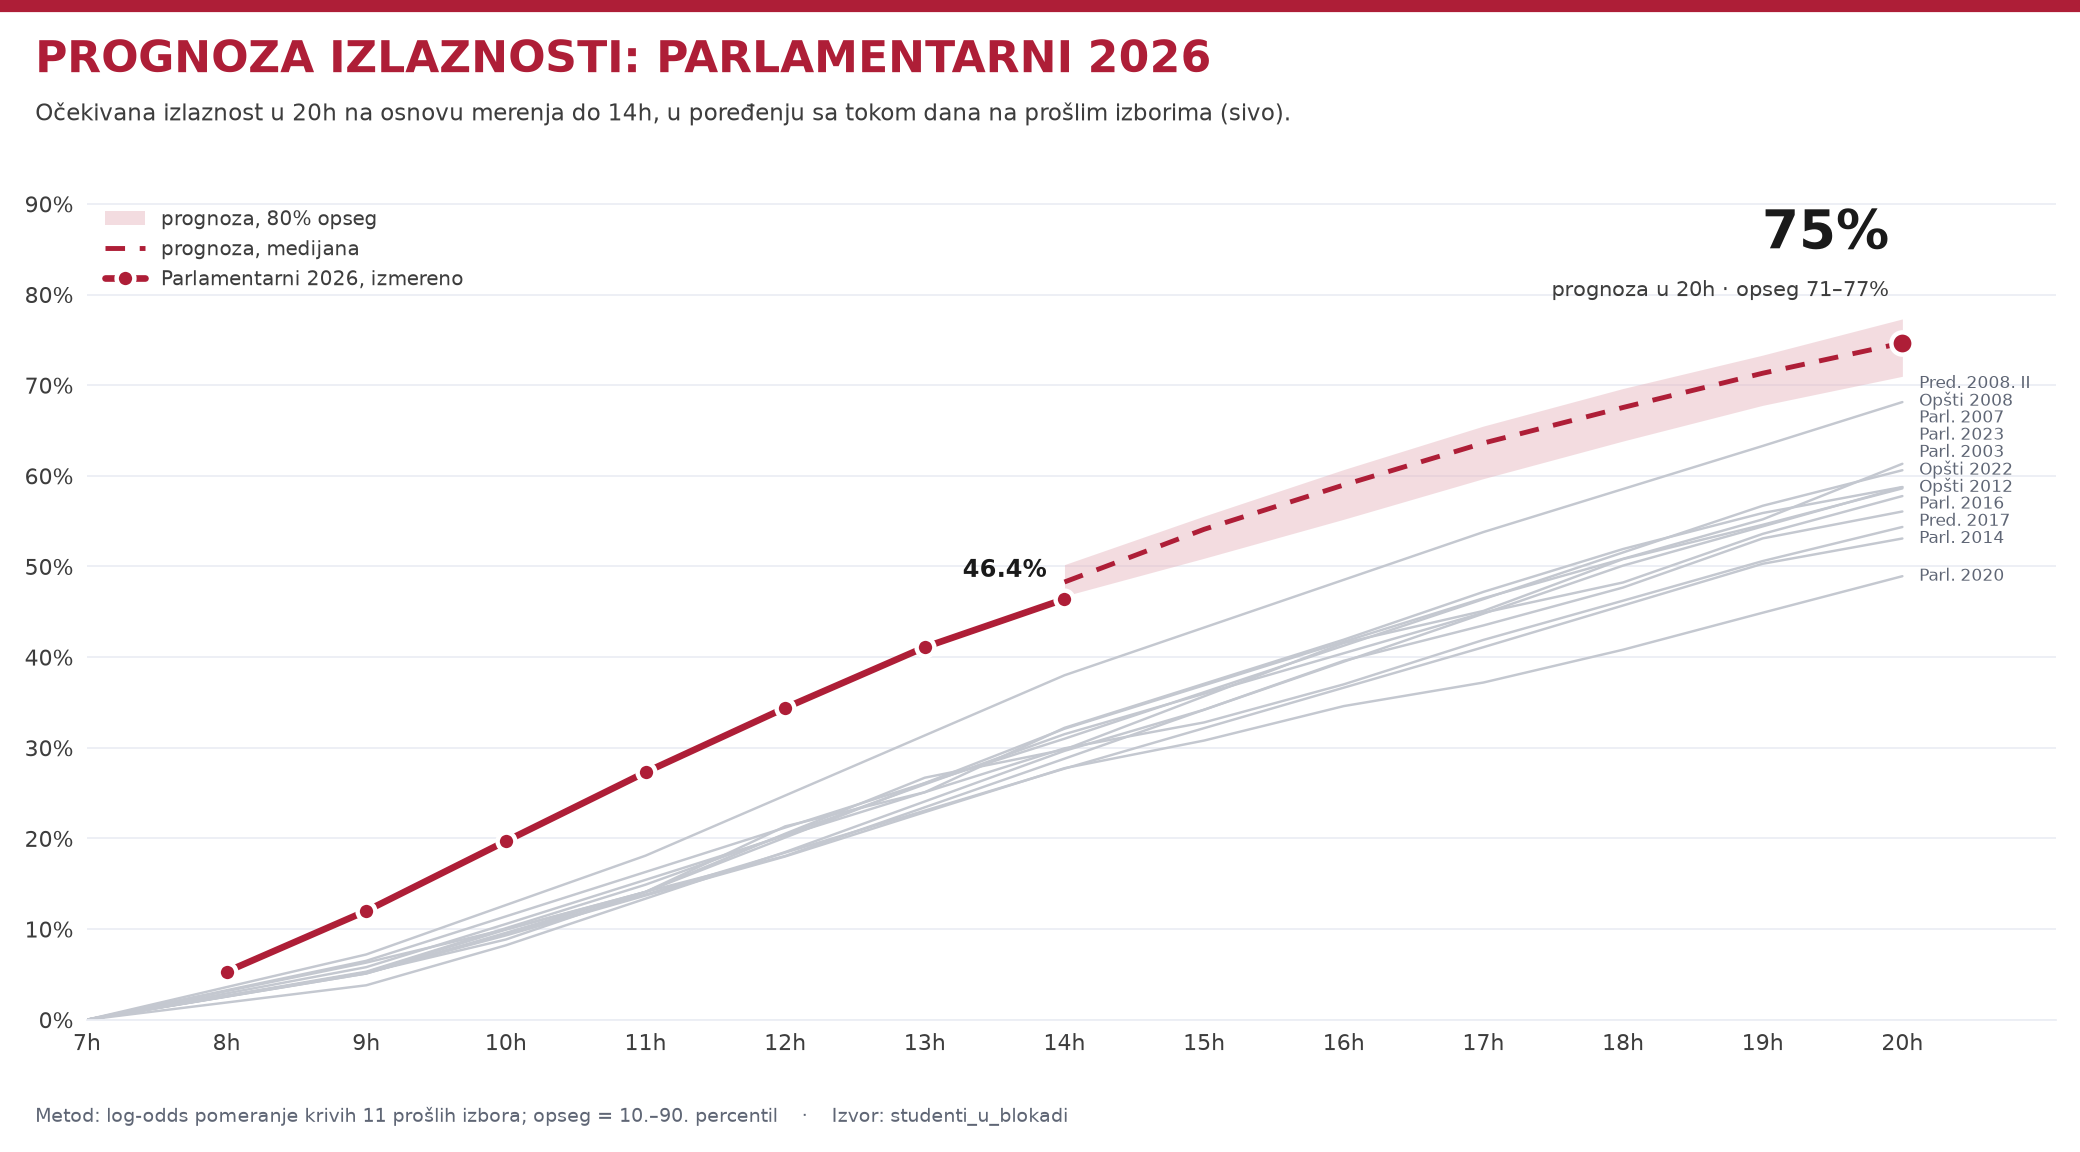
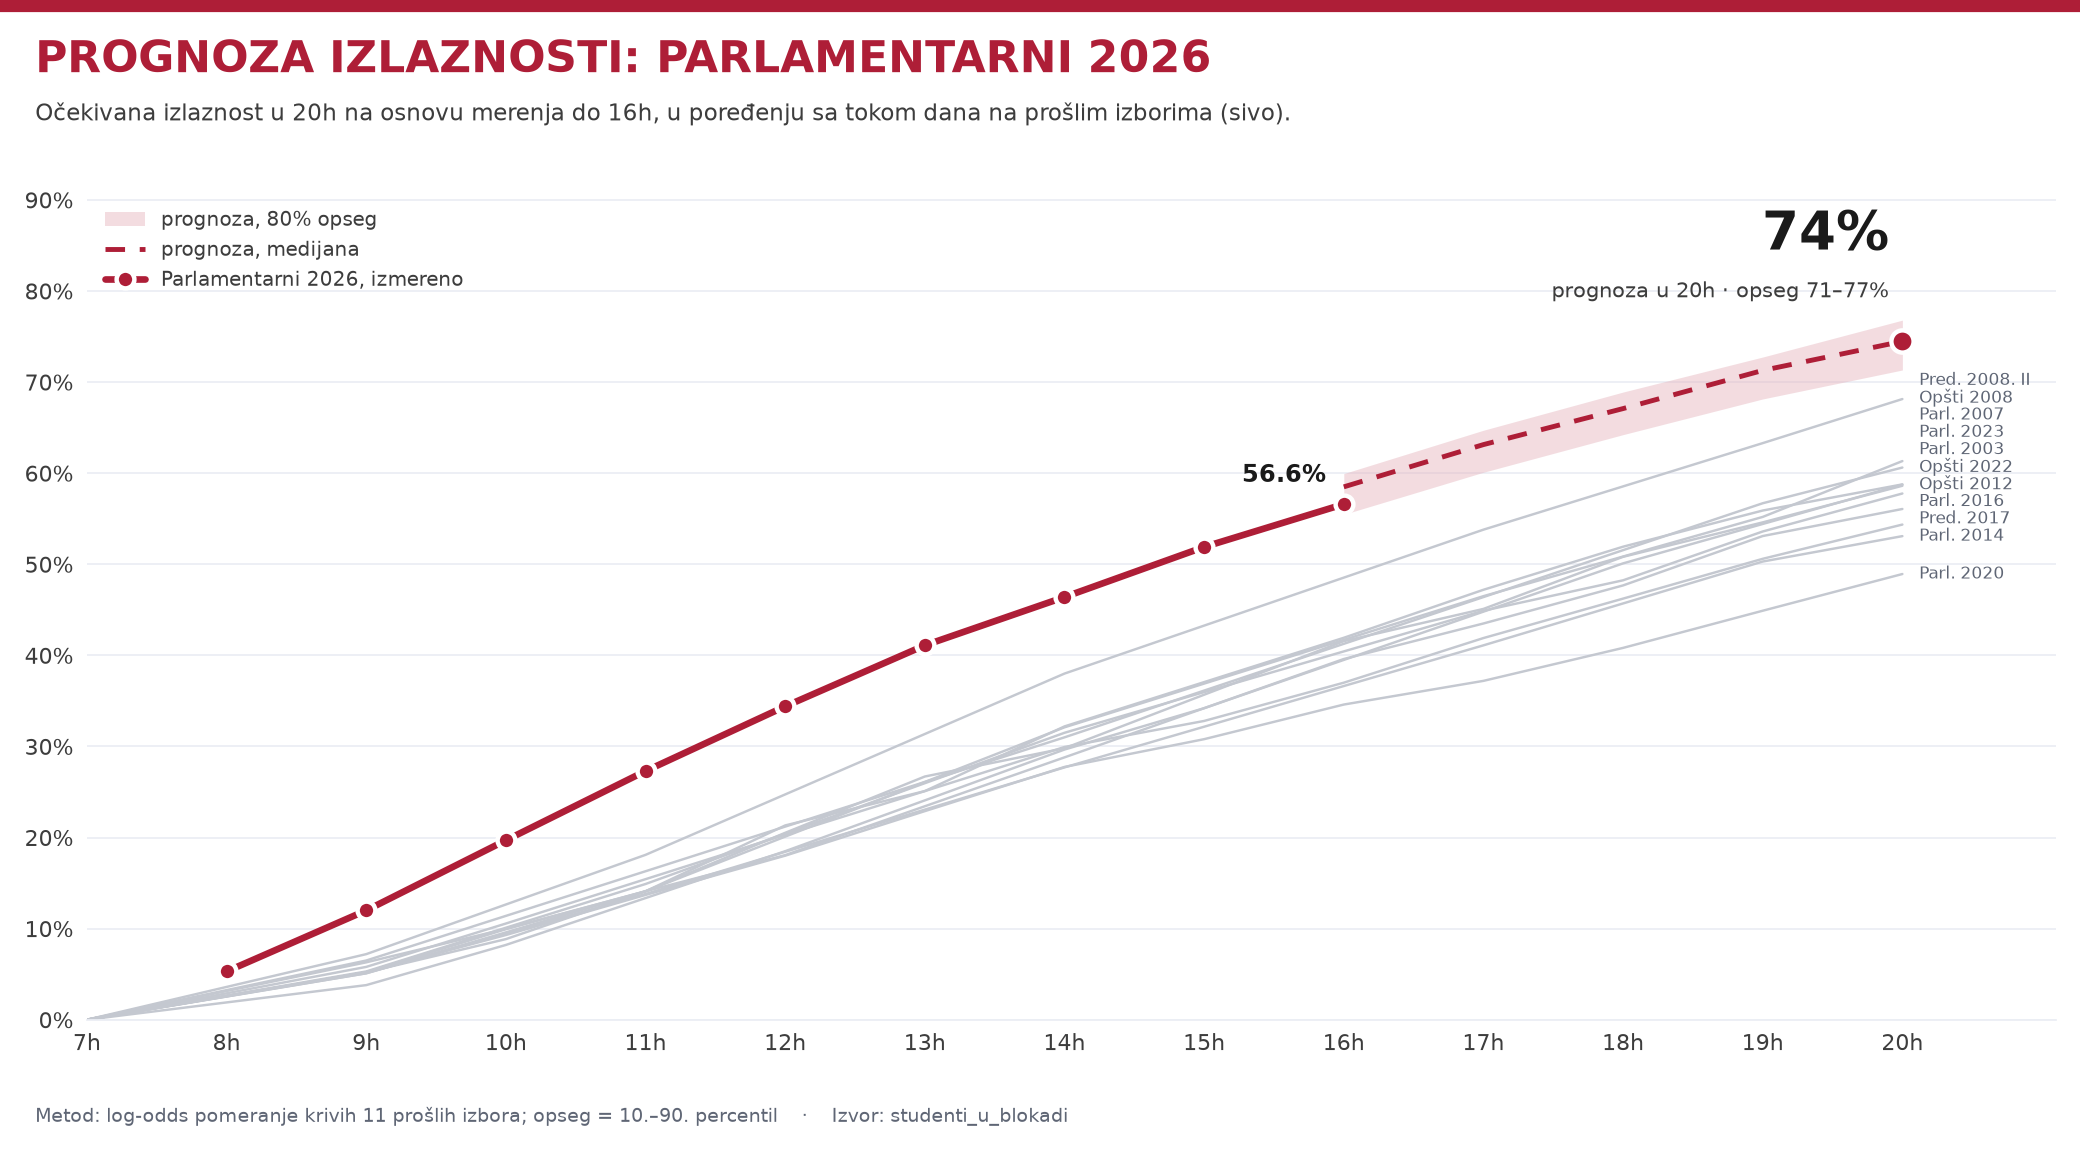
Kalman

diff --git a/src/elections/nice/kalman.py b/src/elections/nice/kalman.py
@@ -1,0 +1,309 @@
+"""Turnout forecast with a Kalman filter.
+
+Model (on the log-odds scale, so turnout always stays between 0 and 100%):
+    reference(h)  = median log-odds turnout curve of past elections
+    offset(h)     = how far the current election is above/below the reference
+    offset(h+1)   = offset(h) + drift            drift ~ N(0, q)    [+ trend, if MODEL="trend"]
+    reading(h)    = reference(h) + offset(h) + noise   noise ~ N(0, r)
+
+q and r are not chosen by hand: they are fitted by maximum likelihood on past
+elections, each one filtered against a reference built from the *other* elections.
+The script also backtests the model on past elections before forecasting.
+"""
+
+import math
+
+import numpy as np
+import pandas as pd
+import matplotlib.pyplot as plt
+
+import chart_style as cs
+
+MODEL = "level"  # "level": offset drifts randomly; "trend": offset can also keep moving
+FIRST_HOUR = 9  # readings before this hour are ignored (no past election has them)
+BAND_Z = 1.2816  # 80% band (1.645 for 90%)
+BACKTEST_CUTOFFS = [11, 14, 16, 17]
+BAND_PCT = round(math.erf(BAND_Z / math.sqrt(2)) * 100)
+
+cs.apply()
+df, hours = cs.load_data()
+grid = np.arange(FIRST_HOUR - 1, cs.FINAL_HOUR + 1)
+final_col = f"{cs.FINAL_HOUR}h"
+refs = df.drop(index=cs.TARGET)
+refs = refs[refs[final_col].notna()]
+
+
+def logit(p):
+    p = np.clip(np.asarray(p, float) / 100, 1e-6, 1 - 1e-6)
+    return np.log(p / (1 - p))
+
+
+def expit(z):
+    return 100 / (1 + np.exp(-z))
+
+
+def observed(row):
+    """Real readings only (no interpolation), from FIRST_HOUR on."""
+    m = row.notna().values
+    h, v = hours[m], row.values[m]
+    keep = h >= FIRST_HOUR
+    return h[keep], v[keep]
+
+
+# Full hourly curve of each past election (used only to build the reference)
+curves = {
+    n: pd.Series(logit(np.interp(grid, *cs.readings(r, hours))), index=grid)
+    for n, r in refs.iterrows()
+}
+
+
+def reference(exclude=None):
+    return pd.DataFrame({n: c for n, c in curves.items() if n != exclude}).median(
+        axis=1
+    )
+
+
+# --- Kalman filter ----------------------------------------------------------
+F = np.array([[1.0, 1.0], [0.0, 1.0]])
+H = np.array([1.0, 0.0])
+
+
+def run_filter(h, v, ref, q, r, qt):
+    """Filter the readings. Returns log-likelihood, state, covariance, last hour."""
+    Q = np.diag([q, qt])
+    x = np.zeros(2)
+    P = np.diag([4.0, 0.05 if qt > 0 else 0.0])  # vague prior on the offset
+    t, loglik = h[0], 0.0
+    for hh, vv in zip(h, v):
+        while t < hh:
+            x, P, t = F @ x, F @ P @ F.T + Q, t + 1
+        S = H @ P @ H + r
+        resid = logit(vv) - ref[hh] - H @ x
+        loglik += -0.5 * (np.log(2 * np.pi * S) + resid**2 / S)
+        K = P @ H / S
+        x, P = x + K * resid, P - np.outer(K, H @ P)
+    return loglik, x, P, t
+
+
+def project(x, P, t, q, qt, until):
+    """Offset mean and variance at hour `until`."""
+    Q = np.diag([q, qt])
+    while t < until:
+        x, P, t = F @ x, F @ P @ F.T + Q, t + 1
+    return x[0], P[0, 0]
+
+
+def forecast(h, v, ref, params, until=cs.FINAL_HOUR):
+    q, r, qt = params
+    _, x, P, t = run_filter(h, v, ref, q, r, qt)
+    m, var = project(x, P, t, q, qt, until)
+    s = np.sqrt(var)
+    return (
+        expit(ref[until] + m - BAND_Z * s),
+        expit(ref[until] + m),
+        expit(ref[until] + m + BAND_Z * s),
+    )
+
+
+# --- Fit q, r (and trend noise) by maximum likelihood ------------------------
+def total_loglik(q, r, qt):
+    return sum(
+        run_filter(*observed(row), reference(n), q, r, qt)[0]
+        for n, row in refs.iterrows()
+    )
+
+
+q_grid = np.geomspace(1e-5, 5e-2, 20)
+r_grid = np.geomspace(1e-5, 5e-2, 20)
+qt_grid = [0.0] if MODEL == "level" else [1e-5, 1e-4, 1e-3]
+best = max(
+    (
+        (total_loglik(q, r, qt), (q, r, qt))
+        for qt in qt_grid
+        for q in q_grid
+        for r in r_grid
+    ),
+    key=lambda b: b[0],
+)
+params = best[1]
+print(
+    f"Model: {MODEL}   log-likelihood {best[0]:.1f}   "
+    f"q={params[0]:.2e}  r={params[1]:.2e}  trend={params[2]:.0e}"
+)
+
+# --- Backtest on past elections (leave-one-out) ------------------------------
+print("\nBacktest: predicting 20h from data up to the cutoff")
+bias_at = {}
+for cut in BACKTEST_CUTOFFS:
+    errors, inside = [], 0
+    for n, row in refs.iterrows():
+        h, v = observed(row)
+        k = h <= cut
+        if k.sum() == 0:
+            continue
+        lo, mid, hi = forecast(h[k], v[k], reference(n), params)
+        actual = row[final_col]
+        errors.append(mid - actual)
+        inside += lo <= actual <= hi
+    e = np.array(errors)
+    bias_at[cut] = e.mean()
+    print(
+        f"  do {cut:>2}h: prosečna greška {np.abs(e).mean():.2f} p.p., "
+        f"pristrasnost {e.mean():+.2f}, u opsegu {inside}/{len(e)}"
+    )
+
+# --- Forecast for the current election ---------------------------------------
+ref = reference()
+h, v = observed(df.loc[cs.TARGET])
+if len(h) == 0:
+    raise SystemExit(f"Nema podataka za {cs.TARGET} od {FIRST_HOUR}h.")
+last_h = h[-1]
+
+as_of = pd.DataFrame(
+    [forecast(h[:i], v[:i], ref, params) for i in range(1, len(h) + 1)],
+    index=h[: len(h)],
+    columns=["lo", "mid", "hi"],
+)
+future = np.arange(last_h, cs.FINAL_HOUR + 1)
+path = pd.DataFrame(
+    [forecast(h, v, ref, params, until=t) for t in future],
+    index=future,
+    columns=["lo", "mid", "hi"],
+)
+lo, point, hi = path.loc[cs.FINAL_HOUR]
+
+print(f"\n{cs.TARGET}: poslednje merenje {v[-1]:.2f}% u {last_h}h")
+print(
+    f"Prognoza za {cs.FINAL_HOUR}h: {point:.1f}%  "
+    f"({BAND_PCT}% opseg {lo:.1f}–{hi:.1f}%)"
+)
+for t, row in path.iloc[1:].iterrows():
+    print(f"  {t:>2}h  {row.mid:5.1f}%  ({row.lo:.1f}–{row.hi:.1f})")
+print("\nPrognoza za 20h kroz dan:")
+for t, row in as_of.iterrows():
+    print(f"  posle {t:>2}h  {row.mid:5.1f}%  ({row.lo:.1f}–{row.hi:.1f})")
+
+# --- Plot -------------------------------------------------------------------
+fig, (ax, ax2) = plt.subplots(2, 1, figsize=(13, 9.6), height_ratios=[3, 1.25])
+
+for _, row in refs.iterrows():
+    ax.plot(*cs.readings(row, hours), color=cs.CONTEXT, lw=1.0, alpha=0.6, zorder=1)
+
+ax.fill_between(
+    path.index,
+    path.lo,
+    path.hi,
+    color=cs.ACCENT_SOFT,
+    alpha=0.45,
+    lw=0,
+    zorder=2,
+    label=f"prognoza, {BAND_PCT}% opseg",
+)
+ax.plot(
+    path.index,
+    path.mid,
+    color=cs.ACCENT,
+    lw=2.4,
+    ls=(0, (4, 3)),
+    zorder=3,
+    label="prognoza (Kalmanov filter)",
+)
+all_h, all_v = cs.readings(df.loc[cs.TARGET], hours)
+ax.plot(
+    all_h[1:],
+    all_v[1:],
+    color=cs.ACCENT,
+    lw=3,
+    marker="o",
+    ms=8,
+    mec=cs.PANEL,
+    mew=2,
+    zorder=4,
+    label=f"{cs.TARGET}, izmereno",
+)
+ax.annotate(
+    f"{v[-1]:.1f}%",
+    (last_h, v[-1]),
+    xytext=(10, -16),
+    textcoords="offset points",
+    ha="left",
+    fontsize=11,
+    fontweight="bold",
+    color=cs.INK,
+)
+ax.plot(
+    cs.FINAL_HOUR, point, "o", ms=10, color=cs.ACCENT, mec=cs.PANEL, mew=2, zorder=5
+)
+ax.annotate(
+    f"{point:.0f}%",
+    (cs.FINAL_HOUR, hi),
+    xytext=(-6, 24),
+    textcoords="offset points",
+    ha="right",
+    va="bottom",
+    fontsize=24,
+    fontweight="bold",
+    color=cs.ACCENT,
+)
+ax.annotate(
+    f"prognoza u {cs.FINAL_HOUR}h · opseg {lo:.0f}–{hi:.0f}%",
+    (cs.FINAL_HOUR, hi),
+    xytext=(-6, 8),
+    textcoords="offset points",
+    ha="right",
+    va="bottom",
+    fontsize=9.5,
+    color=cs.INK_2,
+)
+cs.hour_axis(ax)
+ax.set_xlim(cs.POLLS_OPEN, cs.FINAL_HOUR + 0.4)
+ax.set_ylim(0, max(85, hi + 14))
+ax.set_yticks(range(0, int(ax.get_ylim()[1]) + 1, 10))
+ax.set_yticklabels([f"{t}%" for t in ax.get_yticks()])
+ax.legend(loc="upper left")
+
+# How the 20h forecast changed as readings came in
+ax2.fill_between(
+    as_of.index, as_of.lo, as_of.hi, color=cs.ACCENT_SOFT, alpha=0.45, lw=0
+)
+ax2.plot(
+    as_of.index,
+    as_of.mid,
+    color=cs.ACCENT,
+    lw=2.2,
+    marker="o",
+    ms=6,
+    mec=cs.PANEL,
+    mew=1.5,
+)
+for t, row in as_of.iterrows():
+    ax2.annotate(
+        f"{row.mid:.1f}",
+        (t, row.mid),
+        xytext=(0, 8),
+        textcoords="offset points",
+        ha="center",
+        fontsize=8.5,
+        color=cs.INK_2,
+    )
+ax2.set_title(f"Prognoza za {cs.FINAL_HOUR}h posle svakog merenja", fontsize=10.5)
+cs.hour_axis(ax2)
+ax2.set_xlim(ax.get_xlim())
+ax2.set_ylim(as_of.lo.min() - 2, as_of.hi.max() + 3)
+ax2.yaxis.set_major_locator(plt.MultipleLocator(2))
+ax2.yaxis.set_major_formatter(lambda y, _: f"{y:.0f}%")
+
+cs.header(
+    fig,
+    f"Prognoza izlaznosti: {cs.TARGET}",
+    f"Kalmanov filter na log-odds skali; parametri procenjeni na "
+    f"{len(refs)} prošlih izbora. Merenja do {last_h}h.",
+)
+cut_note = max(c for c in BACKTEST_CUTOFFS if c <= max(last_h, min(BACKTEST_CUTOFFS)))
+cs.footer(
+    fig,
+    f"Model: {MODEL}; opseg = {BAND_PCT}%; test na prošlim izborima (do {cut_note}h): "
+    f"pristrasnost {bias_at[cut_note]:+.1f} p.p.",
+)
+cs.save(fig, "kalman.png")
+plt.show()
